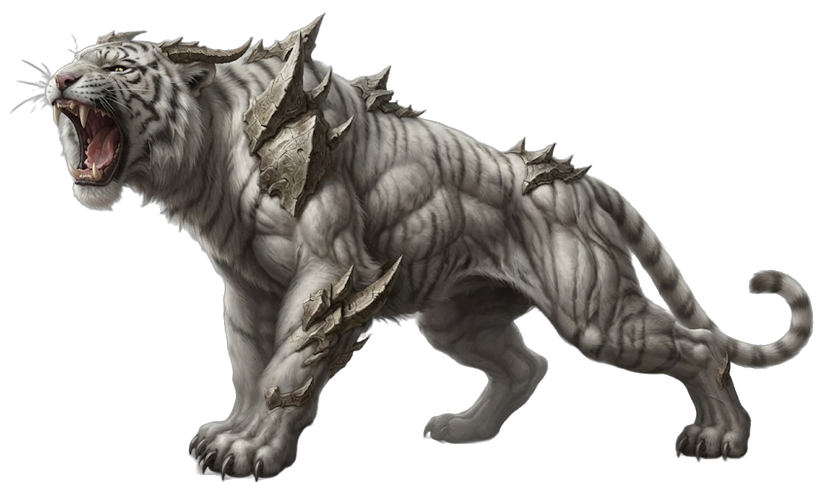
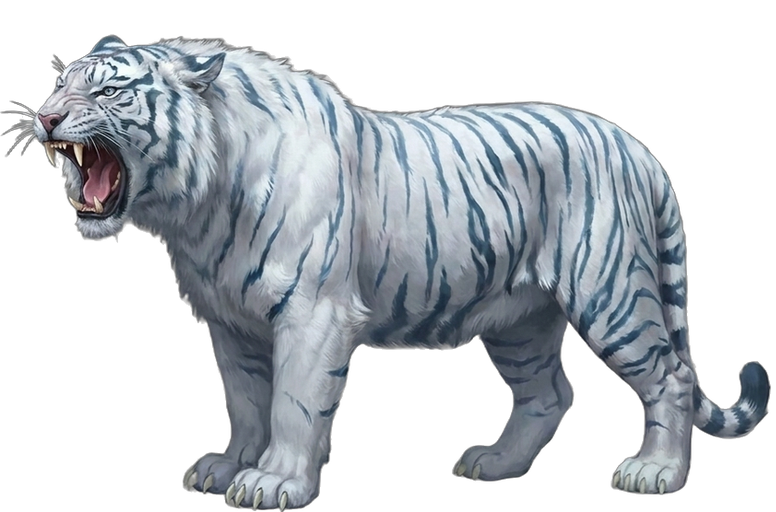
White-Browed Tiger King: redesigned picture, roar picture, animated from its own videos with its own voice
New hold option: a short move held on its last pose before it eases home.

Claude-Session: https://claude.ai/code/session_018PQaDMAeHFrLTZzcauLmnB

diff --git a/scripts/make_beast_sheets.py b/scripts/make_beast_sheets.py
@@ -105,6 +105,14 @@ CLIPS = {
                            "white": ("attack",), "ease_in": {"hit": 3},
                            "settle": {"attack": 4, "hit": 3},
                            "place_as": {"attack": "idle", "hit": "idle", "death": "idle"}},
+    # Nov 27: a WHITE beast, so the white-streak wiping (`white`) would wipe its fur: the frames with the video's white
+    # slash arc (its swipe) and impact star (its flinch) are dropped instead; the flinch is only its first duck (it then
+    # reared up, head too high: cut before, its ducked pose held a moment, `hold`); its picture had no sparkle (`mark` off, so its pale tail is never taken for one)
+    "white_browed_tiger_king": {"attack": (3.0, 7.0), "hit": (0.58, 1.45), "death": (4.4, 7.0), "idle_span": (36, 60),
+                                "idle_until": 3.0, "attack_ms": 2800,
+                                "drop": {"attack": ((4.38, 5.12),), "hit": ((0.72, 1.12),)},
+                                "settle": {"attack": 4, "hit": 3}, "hold": {"hit": 3}, "mark": ((0, 0, 1, 1),),
+                                "place_as": {"attack": "idle", "hit": "idle", "death": "idle"}},
 }
 MARK = (1100, 540, 1230, 660)   # Gemini's sparkle sits in here (x0, y0, x1, y1 of the 1280 x 720 frame)
 # (a beast's own `mark`: tighter boxes where its pale tail tip passes near the sparkle (the fox's), or a second sparkle
@@ -421,6 +429,8 @@ def main(slug, videos, cache=None):
             rest = frames[0]
         n_settle = cfg.get("settle", 0)
         n_settle = n_settle.get(kind, 0) if isinstance(n_settle, dict) else (n_settle if kind == "attack" else 0)
+        if cfg.get("hold", {}).get(kind):                    # a short move held on its last pose, then eased home
+            frames = frames + [frames[-1]] * cfg["hold"][kind]
         if kind != "idle" and cfg.get("ease_in", {}).get(kind):
             frames = ease_in(frames, rest, cfg["ease_in"][kind])
         if n_settle:                                         # (an int: the attack's; a dict: per move)
@@ -446,7 +456,8 @@ def main(slug, videos, cache=None):
             info["reach"] = round(max(0, lefts[0] - lefts[bite]) / (still.width * SCALE), 4)
             info["bite_x"] = round(lefts[bite] / cw, 4)                         # its jaws, at the bite
         else:
-            if len(spans(cfg[kind])) > 1 or kind in cfg.get("drop", {}) or kind in cfg.get("ease_in", {}):
+            if (len(spans(cfg[kind])) > 1 or kind in cfg.get("drop", {}) or kind in cfg.get("ease_in", {})
+                    or kind in cfg.get("hold", {})):
                 info["ms"] = round(len(frames) * STEP / FPS * 1000)            # the frames it really plays
             else:
                 s0, s1 = cfg[kind]

diff --git a/tests/test_web_explore.py b/tests/test_web_explore.py
@@ -1024,6 +1024,23 @@ def test_the_armored_boar_chief_is_animated_from_its_own_videos_with_its_own_voi
     assert explore_play.beast_body("Armored Boar Chief") == "armored_boar_chief"
 
 
+def test_the_white_browed_tiger_king_is_animated_from_its_own_videos_with_its_own_voice():
+    """SHOAIB's redesigned White-Browed Tiger King (Nov 27, Beast King of the Martial Warrior realm): a white beast, so the
+    frames with the video's white slash arc and impact star are dropped rather than wiped (wiping white would wipe its
+    fur); its flinch is only its first duck (it reared up after, head too high), held a moment and eased home."""
+    import json
+    from web import beast_sheets, death, explore_play
+    d = beast_sheets.sheets("white_browed_tiger_king")
+    assert d and set(d["sheets"]) == {"idle", "attack", "hit", "death"} and d["sheets"]["idle"]["smooth"]
+    assert death.view({"kind": "beast", "name": "White-Browed Tiger King", "slug": "white_browed_tiger_king"})["kind"] == "sheet"
+    assert os.path.exists(os.path.join("art", "beasts", "roar", "white_browed_tiger_king.png"))
+    keys = json.load(open(os.path.join("art", "fx", "sounds", "sounds.json")))
+    for sound in ("hit", "lunge", "death", "roar", "roar:big"):
+        assert f"{sound}@white_browed_tiger_king" in keys
+    assert json.load(open(os.path.join("art", "beasts", "heads.json")))["white_browed_tiger_king@roar"][:2] == [0.12, 0.36]
+    assert explore_play.beast_body("White-Browed Tiger King") == "white_browed_tiger_king"
+
+
 def test_a_move_ending_in_another_pose_slides_and_dissolves_back_into_the_idle():
     """`make_beast_sheets.settle`: the last frames slide until the nose meets the idle's, then dissolve into it."""
     from PIL import Image

diff --git a/scripts/make_roar_fx.py b/scripts/make_roar_fx.py
@@ -96,7 +96,7 @@ MOUTHS = {
     "venom_scorpion": (0.36, 0.6),
     "vermilion_bird": (0.17, 0.27),
     "void_serpent": (0.03, 0.2),
-    "white_browed_tiger_king": (0.07, 0.47),
+    "white_browed_tiger_king": (0.055, 0.35),
     "wind_feather_falcon": (0.03, 0.67),
     "white_tiger": (0.05, 0.37),
     "wild_boar": (0.08, 0.58),
@@ -164,7 +164,7 @@ ROAR_MOUTHS = {
     "venom_scorpion": (0.36, 0.6),
     "vermilion_bird": (0.36, 0.24),
     "void_serpent": (0.08, 0.25),
-    "white_browed_tiger_king": (0.1, 0.2),
+    "white_browed_tiger_king": (0.12, 0.36),
     "white_tiger": (0.17, 0.25),
     "wild_boar": (0.14, 0.53),
     "wild_ox": (0.07, 0.55),

diff --git a/docs/web.md b/docs/web.md
@@ -540,6 +540,7 @@ What is recorded now (23 names, 22 files, about 220 KB, all from SHOAIB's videos
 | The Stray Dog's lunge and snap, its yelp, its fall, its snarl and barking (`@stray_dog_pack`) | its own idle + lunge and hit + death videos (Nov 26) |
 | The Field Viper's strike snap, its pained hiss, the thump as it drops, its hiss and big hiss (`@field_viper`) | its own idle + strike and hit + death videos (Nov 26) |
 | The Armored Boar Chief's squealing tusk toss, its squeal when struck, its dying grunts as it falls, its snorts and big grunt (`@armored_boar_chief`) | its own idle + attack and hit + death videos (Nov 27) |
+| The White-Browed Tiger King's roaring paw swipe, its snarl when struck, its dying growl, its growl and big roar (`@white_browed_tiger_king`) | its own idle + attack and hit + death videos (Nov 27) |
 | A roar, and a big roar, for wolf-, cat- and ape-bodied beasts | the quadruped roar video |
 
 **His own sounds (Nov 24).** The new male's videos carry sound too, and his moves play it: his Strike's swing, his
@@ -983,7 +984,7 @@ its beasts in `DEATH_CATEGORY`. To give another four-legged beast the movement, 
 ## Animated beasts
 
 A beast can be animated from its videos (SHOAIB's, Gemini or Flow: idle, attack, hit, death; so far the **Grey Wolf**
-and the redesigned **Wild Boar**, **Field Viper**, **Stray Dog Pack**, **Wild Ox**, **Old Black Bear**, **Iron-Hide Boar**, **Red Fox**, the first bird, the **Wind-Feather Falcon**, the **Shadow Wolf**, the **Horned Stag**, the **Mountain Tiger**, the **Rock Python**, the **Spear-Beak Crane**, the **Thornback Lizard**, the **Bloodfang Wolf** and the **Armored Boar Chief**). One video can hold two of them: the Wild Boar's idle comes from one video, its hit
+and the redesigned **Wild Boar**, **Field Viper**, **Stray Dog Pack**, **Wild Ox**, **Old Black Bear**, **Iron-Hide Boar**, **Red Fox**, the first bird, the **Wind-Feather Falcon**, the **Shadow Wolf**, the **Horned Stag**, the **Mountain Tiger**, the **Rock Python**, the **Spear-Beak Crane**, the **Thornback Lizard**, the **Bloodfang Wolf**, the **Armored Boar Chief** and the **White-Browed Tiger King**). One video can hold two of them: the Wild Boar's idle comes from one video, its hit
 and attack from a second, its death from a third (`CLIPS` gives the seconds of each).
 **The move panel never changes height** (fight.js `holdInfo`): it is held at the height of its tallest text (every
 move's and technique's, tried once when the page comes in, and again when the window changes size). Guard's and
@@ -1001,6 +1002,10 @@ impact flash is dropped). Both videos start from the same picture with the camer
 the idle (`place_as`). **A move cut mid-motion eases in** (`ease_in`): the flinch and the collapse start while the wolf
 is already moving, so a few frames are put in front that slide the standing idle toward the move's first frame and
 dissolve into it, and the flinch settles back into the idle at its end (`settle` per move: `{"hit": 3}`).
+**A white beast's video effects are dropped, never wiped** (Nov 27, the White-Browed Tiger King): `white` wipes
+near-white pixels, which would wipe a white tiger's fur, so the frames with its swipe's white slash arc and its
+flinch's impact star are left out (`drop`). Its flinch is only its first duck (the video then reared it up, head too
+high), so its ducked pose is held a moment (`hold`) before it eases home (`settle`).
 **The idle never jumps** (`smooth_idle`; SHOAIB: "it keeps resetting"): its last frame never quite met its first, so
 a short idle plays forward then back, breathing in and out, and a long one (24+ frames) dissolves its last 6 frames
 into its first; and it keeps its place in time when the page is replaced each turn (fight.js sets its

diff --git a/art/beasts/PROMPTS.md b/art/beasts/PROMPTS.md
@@ -115,7 +115,12 @@ Its first prompt, before the redesign:
 > A giant boar chieftain wearing scraps of bronze armour, broken spear shafts in its hide, with a subtle amber earth elemental aura. It is an elite: larger and more battle-scarred than its kind. Digital painting, premium Chinese xianxia MMORPG creature concept art. Realistic anatomy, detailed fur, teeth and claws, dramatic natural rim lighting, painterly brushwork, rich but mature colours. Full body, three-quarter view facing left, dynamic pose. Isolated on a plain transparent background, no ground, no text, no frame, no watermark.
 
 **White-Browed Tiger King** · Beast King · Frost
-File: `art/beasts/white_browed_tiger_king.png`
+File: `art/beasts/white_browed_tiger_king.png` (Nov 27 redesign, Nano Banana Pro (it came out facing right: mirrored, and its darkening backdrop evened out); animated
+from its idle + attack and hit + death videos)
+
+> The White-Browed Tiger King for a Chinese xianxia martial arts game, the Beast King of its realm: a colossal, heavily muscled white tiger with thick snow-white fur, bold icy-blue stripes, a large pure white brow mark above its eyes, a heavy ruff of fur around its neck, an old scar across its muzzle, huge paws with pale claws, and cold eyes with a faint icy-blue glow of frost Qi. Regal and awe-inspiring, a natural animal, not a monster. Strict side view, facing LEFT, standing on all four legs, head held level, all four legs clearly visible, solid and separated, mouth closed. Its tail is tucked down tight against the back of its rear leg, so only a short, thick piece of tail is visible hanging straight down behind its thigh; no tail tip curls out and nothing sticks out behind the tiger. SMALL in the picture: the tiger takes up only about 60% of the picture's height, placed a little right of centre, with a wide band of empty grey above its ears (about a quarter of the picture's height), plenty of empty grey on the left and on the right, and its paws a little above the bottom edge. Realistic digital painting, premium Chinese xianxia MMORPG creature concept art, detailed fur, stripes and claws, soft natural lighting, painterly brushwork, rich but mature colours. Plain flat, even medium-grey background, exactly the same grey everywhere, no gradient, no vignette, no light outline or glow around the tiger's body, no ground, no shadow, no mist, no snow, no aura, no sparkles, no text, no watermark. 16:9.
+
+Its first prompt, before the redesign:
 
 > A regal white tiger king with a white brow mark, icy blue stripes, frost mist around its paws, with a subtle icy blue elemental aura. It is a Beast King: the most powerful of its realm, regal, enormous and awe-inspiring. Digital painting, premium Chinese xianxia MMORPG creature concept art. Realistic anatomy, detailed fur and claws, dramatic natural rim lighting, painterly brushwork, rich but mature colours. Full body, three-quarter view facing left, dynamic pose. Isolated on a plain transparent background, no ground, no text, no frame, no watermark.
 

diff --git a/art/beasts/README.md b/art/beasts/README.md
@@ -53,5 +53,7 @@ with cracked earth scales and grey stone thorns, now drawn facing left (no longe
 (Elite) is a huge dark blood-red wolf with a shaggy ruff and oversized ivory fangs, drawn facing left (no longer
 mirrored); every move is taken from whichever of its two videos had it clean. The **Armored Boar Chief** (Elite) is a giant
 wild boar in dented bronze plates with short broken spear stubs in its hide; its idle comes from the calm middle of
-its hit video, since its attack video began with steam puffing from its snout. The beasts are
+its hit video, since its attack video began with steam puffing from its snout. The **White-Browed Tiger King**, the Martial
+Warrior Beast King, is a colossal white tiger with icy-blue stripes; its picture was mirrored to face left and its
+backdrop evened out before its videos, and its video effects are dropped frame by frame (wiping white would wipe its fur). The beasts are
 being redone one at a time in roster order the same way.
